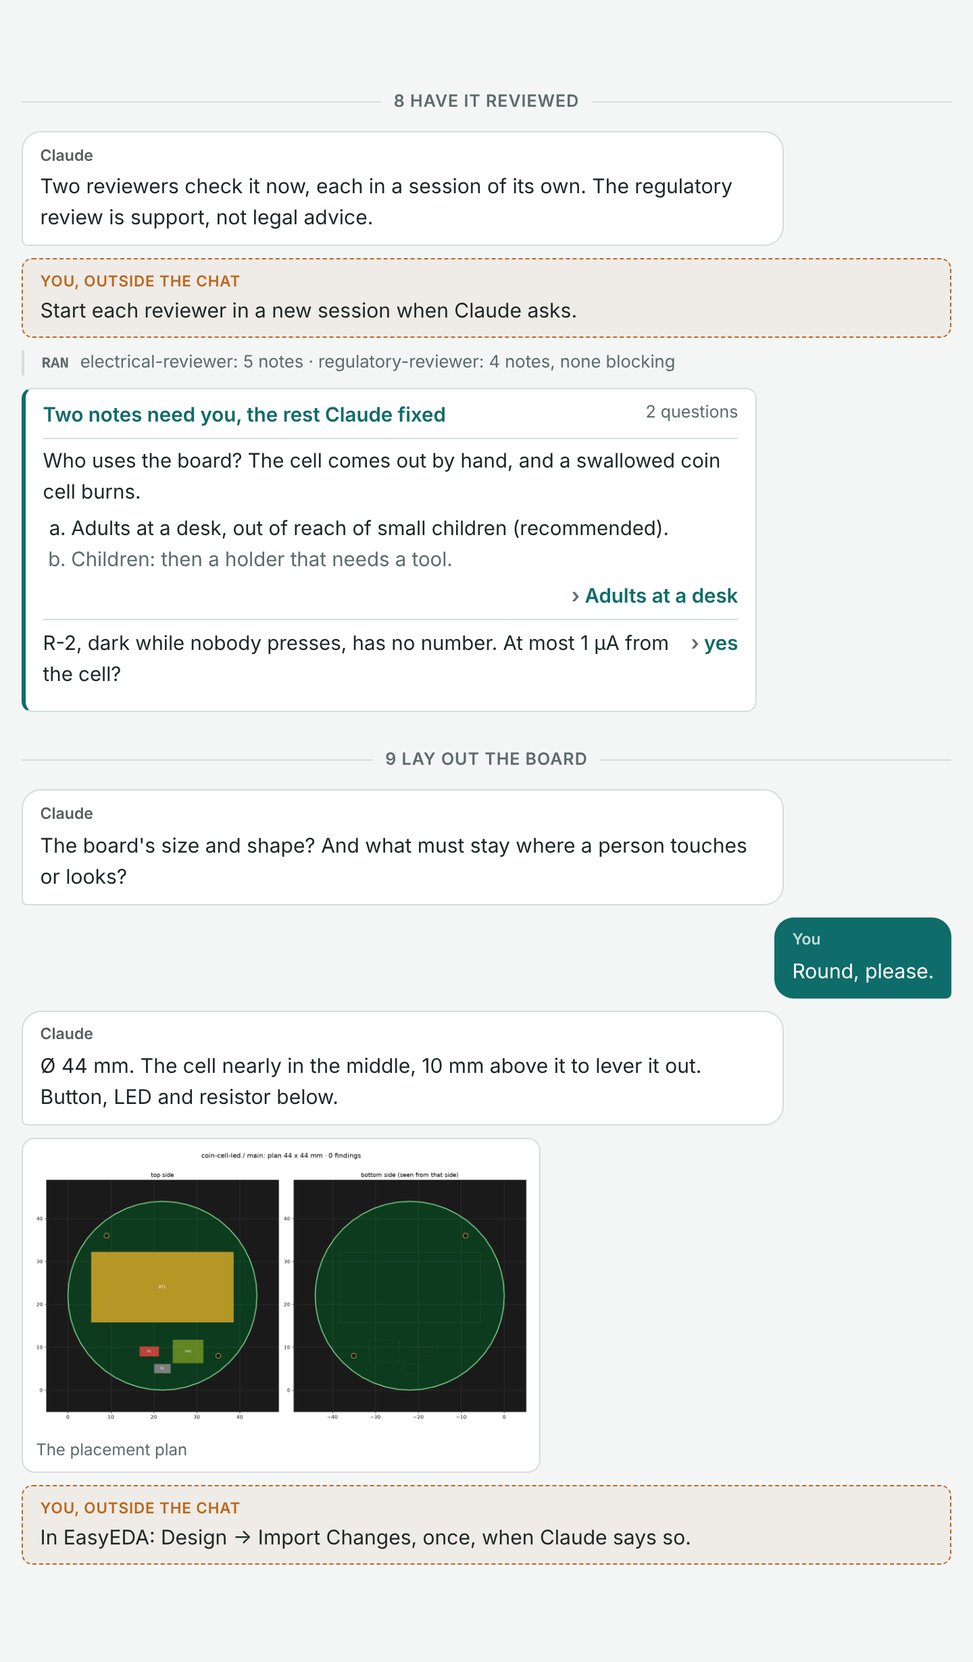
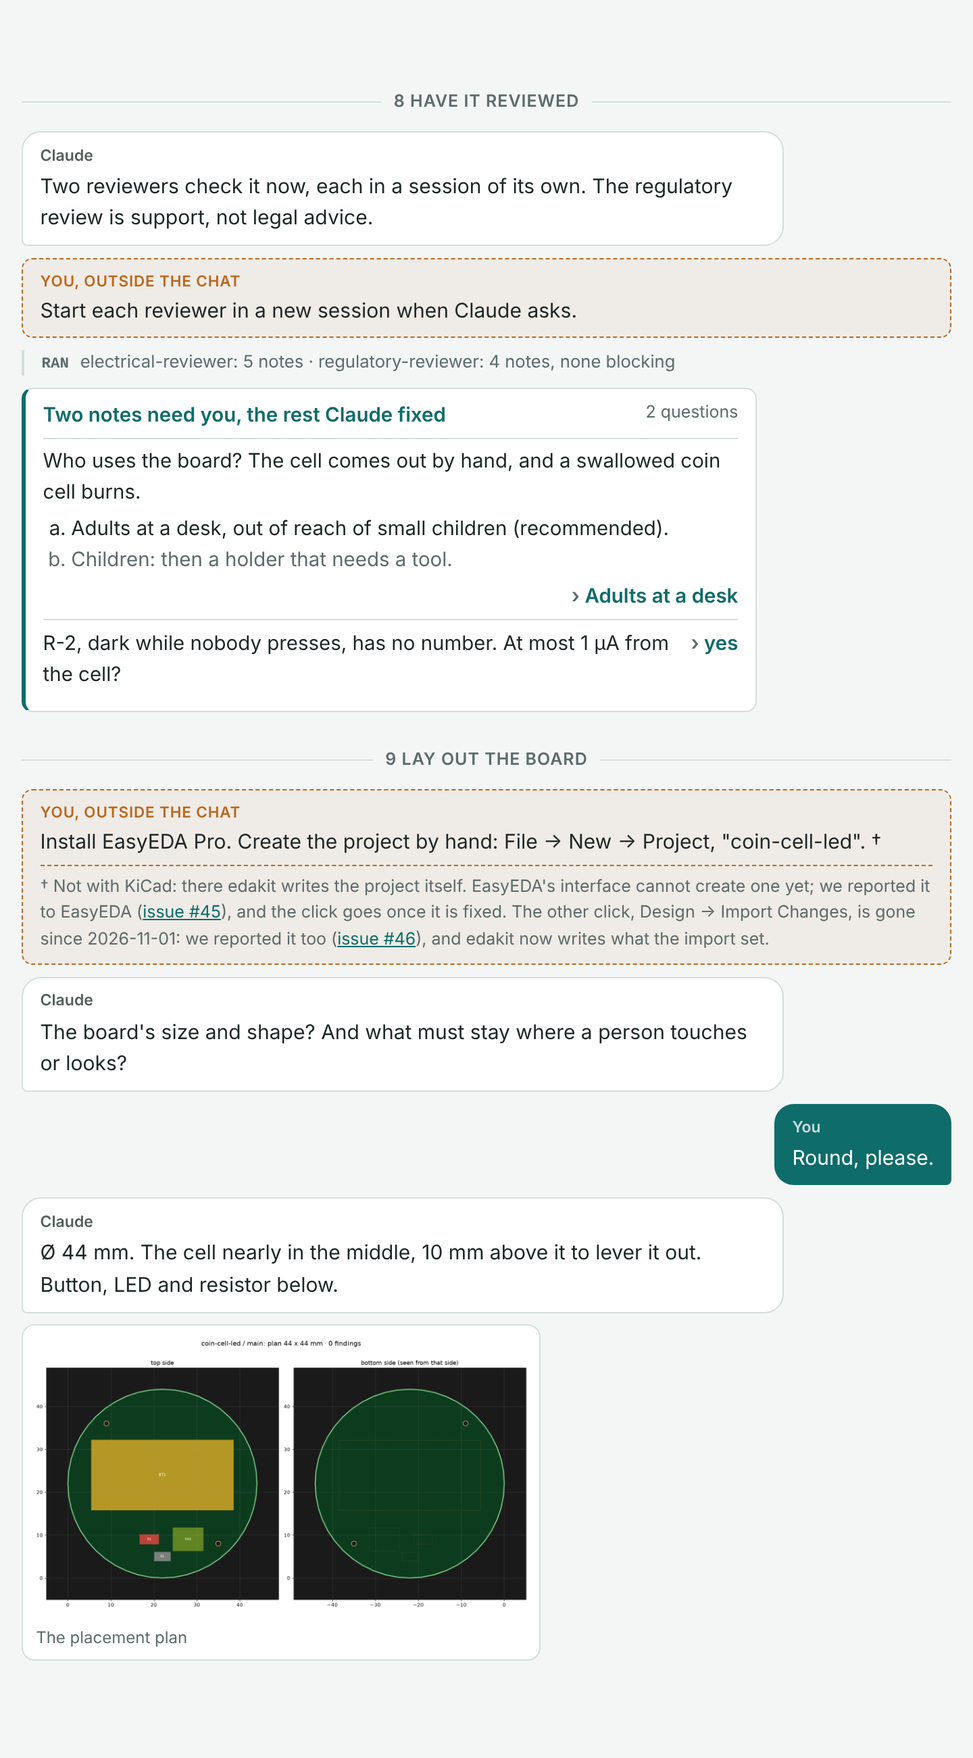
Concept session-chat: a footnote on the click in EasyEDA

diff --git a/docs/concepts/new/prototypes/session-chat/out/session.html b/docs/concepts/new/prototypes/session-chat/out/session.html
@@ -40,6 +40,9 @@ main > p { color: var(--chat-ink); margin: 0 0 .8rem; }
 
 .chat-do { align-self: stretch; padding: .5rem .8rem; border: 1px dashed var(--chat-copper); border-radius: .5rem;
            background: color-mix(in srgb, var(--chat-copper) 7%, transparent); }
+.chat-note { margin-top: .4rem !important; padding-top: .35rem; border-top: 1px dashed var(--chat-copper);
+             font-size: .78rem; color: var(--chat-muted); }
+.chat-note a { color: var(--chat-accent); }
 .chat-do-label { display: block; font-size: .7rem; font-weight: 600; color: var(--chat-copper);
                  text-transform: uppercase; letter-spacing: .04em; }
 
@@ -109,13 +112,12 @@ story, with every file, is the walkthrough.</p><div class="chat">
 <div class="chat-form"><div class="chat-form-title">Two notes need you, the rest Claude fixed<span>2 questions</span></div><div class="chat-q"><p>Who uses the board? The cell comes out by hand, and a swallowed coin cell burns.</p><ol><li class="chat-rec">Adults at a desk, out of reach of small children (recommended).</li><li>Children: then a holder that needs a tool.</li></ol><p class="chat-a">Adults at a desk</p></div><div class="chat-q chat-q-row"><p>R-2, dark while nobody presses, has no number. At most 1 µA from the cell?</p><p class="chat-a">yes</p></div></div>
 <div class="chat-msg chat-claude"><span class="chat-who">Claude</span><p>Fixed. Both reviewers looked again, found one more slip, and signed.</p></div>
 <div class="chat-step"><span>9 Lay out the board</span></div>
-<div class="chat-do"><span class="chat-do-label">You, outside the chat</span><p>Install EasyEDA Pro. Create the project by hand: File → New → Project, &quot;coin-cell-led&quot;.</p></div>
+<div class="chat-do"><span class="chat-do-label">You, outside the chat</span><p>Install EasyEDA Pro. Create the project by hand: File → New → Project, &quot;coin-cell-led&quot;. †</p><p class="chat-note">† Not with KiCad: there edakit writes the project itself. EasyEDA&#x27;s interface cannot create one yet; we reported it to EasyEDA (<a href="https://github.com/easyeda/easyeda-api-sdk/issues/45">issue #45</a>), and the click goes once it is fixed. The other click, Design → Import Changes, is gone since 2026-11-01: we reported it too (<a href="https://github.com/easyeda/easyeda-api-sdk/issues/46">issue #46</a>), and edakit now writes what the import set.</p></div>
 <div class="chat-do"><span class="chat-do-label">You, outside the chat</span><p>Start a new session and type <code>/edakit:pcb-round</code>.</p></div>
 <div class="chat-msg chat-claude"><span class="chat-who">Claude</span><p>The board&#x27;s size and shape? And what must stay where a person touches or looks?</p></div>
 <div class="chat-msg chat-you"><span class="chat-who">You</span><p>Round, please.</p></div>
 <div class="chat-msg chat-claude"><span class="chat-who">Claude</span><p>Ø 44 mm. The cell nearly in the middle, 10 mm above it to lever it out. Button, LED and resistor below.</p></div>
 <figure class="chat-img"><img src="../../../../../../examples/coin-cell-led/docs/pcb_plan_main.png" alt="The placement plan"><figcaption>The placement plan</figcaption></figure>
-<div class="chat-do"><span class="chat-do-label">You, outside the chat</span><p>In EasyEDA: Design → Import Changes, once, when Claude says so.</p></div>
 <div class="chat-ran"><span>ran</span> placed · routed with Freerouting · ground poured · labels · DRC clean · pcb-reviewer signed</div>
 <figure class="chat-img"><img src="../../../../../../examples/coin-cell-led/docs/silk_main_top.png" alt="The board"><figcaption>The board</figcaption></figure>
 <div class="chat-step"><span>10 Order the board</span></div>
@@ -125,4 +127,4 @@ story, with every file, is the walkthrough.</p><div class="chat">
 <div class="chat-ran"><span>ran</span> <code>/edakit:cart</code>: every field set and read back, the quote checked against the estimate. Stopped at the cart.</div>
 <div class="chat-do"><span class="chat-do-label">You, outside the chat</span><p>Check D1&#x27;s cathode in JLCPCB&#x27;s preview, then order and pay.</p></div>
 <div class="chat-do"><span class="chat-do-label">You, outside the chat</span><p>When the boards arrive: solder BT1, test each board against the list.</p></div>
-<div class="chat-tally"><b>Your part:</b> 8 messages typed, 15 answers in 5 forms, 7 things done outside the chat.</div></div></main></body></html>
+<div class="chat-tally"><b>Your part:</b> 8 messages typed, 15 answers in 5 forms, 6 things done outside the chat.</div></div></main></body></html>

diff --git a/docs/concepts/new/prototypes/session-chat/out/example.html b/docs/concepts/new/prototypes/session-chat/out/example.html
@@ -40,6 +40,9 @@ main > p { color: var(--chat-ink); margin: 0 0 .8rem; }
 
 .chat-do { align-self: stretch; padding: .5rem .8rem; border: 1px dashed var(--chat-copper); border-radius: .5rem;
            background: color-mix(in srgb, var(--chat-copper) 7%, transparent); }
+.chat-note { margin-top: .4rem !important; padding-top: .35rem; border-top: 1px dashed var(--chat-copper);
+             font-size: .78rem; color: var(--chat-muted); }
+.chat-note a { color: var(--chat-accent); }
 .chat-do-label { display: block; font-size: .7rem; font-weight: 600; color: var(--chat-copper);
                  text-transform: uppercase; letter-spacing: .04em; }
 
@@ -76,9 +79,9 @@ main > p { color: var(--chat-ink); margin: 0 0 .8rem; }
 <div class="chat-ran"><span>ran</span> electrical-reviewer: 5 notes · regulatory-reviewer: 4 notes, none blocking</div>
 <div class="chat-form"><div class="chat-form-title">Two notes need you, the rest Claude fixed<span>2 questions</span></div><div class="chat-q"><p>Who uses the board? The cell comes out by hand, and a swallowed coin cell burns.</p><ol><li class="chat-rec">Adults at a desk, out of reach of small children (recommended).</li><li>Children: then a holder that needs a tool.</li></ol><p class="chat-a">Adults at a desk</p></div><div class="chat-q chat-q-row"><p>R-2, dark while nobody presses, has no number. At most 1 µA from the cell?</p><p class="chat-a">yes</p></div></div>
 <div class="chat-step"><span>9 Lay out the board</span></div>
+<div class="chat-do"><span class="chat-do-label">You, outside the chat</span><p>Install EasyEDA Pro. Create the project by hand: File → New → Project, &quot;coin-cell-led&quot;. †</p><p class="chat-note">† Not with KiCad: there edakit writes the project itself. EasyEDA&#x27;s interface cannot create one yet; we reported it to EasyEDA (<a href="https://github.com/easyeda/easyeda-api-sdk/issues/45">issue #45</a>), and the click goes once it is fixed. The other click, Design → Import Changes, is gone since 2026-11-01: we reported it too (<a href="https://github.com/easyeda/easyeda-api-sdk/issues/46">issue #46</a>), and edakit now writes what the import set.</p></div>
 <div class="chat-msg chat-claude"><span class="chat-who">Claude</span><p>The board&#x27;s size and shape? And what must stay where a person touches or looks?</p></div>
 <div class="chat-msg chat-you"><span class="chat-who">You</span><p>Round, please.</p></div>
 <div class="chat-msg chat-claude"><span class="chat-who">Claude</span><p>Ø 44 mm. The cell nearly in the middle, 10 mm above it to lever it out. Button, LED and resistor below.</p></div>
 <figure class="chat-img"><img src="../../../../../../examples/coin-cell-led/docs/pcb_plan_main.png" alt="The placement plan"><figcaption>The placement plan</figcaption></figure>
-<div class="chat-do"><span class="chat-do-label">You, outside the chat</span><p>In EasyEDA: Design → Import Changes, once, when Claude says so.</p></div>
 </div></main></body></html>

diff --git a/docs/concepts/new/prototypes/session-chat/chat.css b/docs/concepts/new/prototypes/session-chat/chat.css
@@ -40,6 +40,9 @@ main > p { color: var(--chat-ink); margin: 0 0 .8rem; }
 
 .chat-do { align-self: stretch; padding: .5rem .8rem; border: 1px dashed var(--chat-copper); border-radius: .5rem;
            background: color-mix(in srgb, var(--chat-copper) 7%, transparent); }
+.chat-note { margin-top: .4rem !important; padding-top: .35rem; border-top: 1px dashed var(--chat-copper);
+             font-size: .78rem; color: var(--chat-muted); }
+.chat-note a { color: var(--chat-accent); }
 .chat-do-label { display: block; font-size: .7rem; font-weight: 600; color: var(--chat-copper);
                  text-transform: uppercase; letter-spacing: .04em; }
 

diff --git a/docs/concepts/new/prototypes/session-chat/chat.py b/docs/concepts/new/prototypes/session-chat/chat.py
@@ -9,6 +9,7 @@ The format, one entry a line, an indented line continuing the one above:
     claude: <text>         what Claude says
     ran: <text>            what Claude ran – a quiet line, no bubble
     do: <text>             what the person does outside the chat: an install, a click, a new session, paying
+      † <text>             under a do: its footnote – for a click in EasyEDA: KiCad needs none, and the issue upstream
     img: <path> | <alt>    a picture Claude shows
     form: <title>          Claude Code's question form, then per question:
       ? <question>
@@ -47,6 +48,8 @@ def parse(text):
                     value["questions"][-1]["options"].append(rest)
                 else:
                     value["questions"][-1]["answer"] = rest
+            elif body.startswith("† ") and kind in ("do", "note"):
+                entries.append(("note", body[2:]))
             elif kind != "form":
                 entries[-1] = (kind, f"{value} {body}")
             continue
@@ -68,16 +71,31 @@ def tally(entries):
     return {"typed": you, "forms": len(forms), "answers": answers, "outside": do}
 
 
+LINK = re.compile(r"\[([^\]]+)\]\(([^)\s]+)\)")
+
+
 def code(text):
-    """`/edakit:…`, `edakit …` and paths set in mono, the rest escaped."""
+    """`/edakit:…`, `edakit …` and paths set in mono, [text](url) a link, the rest escaped."""
+    out, last = [], 0
+    for m in LINK.finditer(text):
+        out.append(mono(text[last:m.start()]))
+        out.append(f'<a href="{html.escape(m.group(2))}">{mono(m.group(1))}</a>')
+        last = m.end()
+    return "".join(out) + mono(text[last:])
+
+
+def mono(text):
+    """The commands – on the site the list of edakit's own –, the slash commands and the paths in mono."""
     out = html.escape(text)
-    return re.sub(r"(/edakit:[\w-]+|edakit [a-z][\w -]*?(?= ·|:|$|\.)|[\w./-]+\.(?:toml|json|md))",
+    return re.sub(r"(/edakit:[\w-]+|edakit (?:block|part|check|sim|stock|cost|order|schematic|gate|req|graph|explain|cart|pcb|route|release)\b[\w -]*?(?= ·|:|$|\.)|[\w./-]+\.(?:toml|json|md))",
                   r"<code>\1</code>", out)
 
 
 def render(entries):
     parts = ['<div class="chat">']
-    for kind, value in entries:
+    for n, (kind, value) in enumerate(entries):
+        if kind == "note":
+            continue                     # written inside the do above it
         if kind == "step":
             parts.append(f'<div class="chat-step"><span>{html.escape(value)}</span></div>')
         elif kind in ("you", "claude"):
@@ -87,8 +105,14 @@ def render(entries):
         elif kind == "ran":
             parts.append(f'<div class="chat-ran"><span>ran</span> {code(value)}</div>')
         elif kind == "do":
+            notes = []
+            for k, v in entries[n + 1:]:
+                if k != "note":
+                    break
+                notes.append(f'<p class="chat-note">† {code(v)}</p>')
+            mark = " †" if notes else ""
             parts.append(f'<div class="chat-do"><span class="chat-do-label">You, outside the chat</span>'
-                         f'<p>{code(value)}</p></div>')
+                         f'<p>{code(value)}{mark}</p>{"".join(notes)}</div>')
         elif kind == "img":
             path, _, alt = (s.strip() for s in value.partition("|"))
             parts.append(f'<figure class="chat-img"><img src="{html.escape(path)}" alt="{html.escape(alt)}">'

diff --git a/docs/concepts/new/session-chat.md b/docs/concepts/new/session-chat.md
@@ -26,7 +26,7 @@ what ran in between.
 
 **The yardstick.** The chat is text in the repository, the page's source, held by a test to the example's files.
 Nothing of it exists only in EasyEDA or in someone's head. It also makes visible what is not yet chat – the install,
-two clicks in EasyEDA, the new sessions, paying – instead of hiding it.
+the click in EasyEDA, the new sessions, paying – instead of hiding it.
 
 ## The proposal
 
@@ -48,10 +48,15 @@ two clicks in EasyEDA, the new sessions, paying – instead of hiding it.
   `docs/decisions.md`, its graph, requirements and outputs – and from the walkthrough. Claude's lines are shortened;
   the page says so once, in its intro, and links the walkthrough for the full story.
 - **Honest about the rest.** What a person does outside the chat stands in the chat, set apart ("You, outside the
-  chat"): the install, creating the EasyEDA project by hand, *Import Changes*, a new session for the layout, starting
+  chat"): the install, creating the EasyEDA project by hand, a new session for the layout, starting
   the reviewers, checking the preview, ordering and paying, testing the boards. Each such line is also a requirement
   E-… in `upstream/README.md` or a step of the steps pages; when one goes away, its line goes.
-- **The tally** under the chat: "Your part: 8 messages typed, 15 answers in 5 forms, 7 things done outside the chat."
+- **A click in EasyEDA gets a footnote** (the owner, 2026-11-03): that KiCad does without it, and that it is reported
+  to EasyEDA so it goes – the issue linked, the same as in the requirement E-… of `upstream/README.md`. Today that is
+  one click, *File → New → Project* (E-1, [easyeda-api-sdk#45](https://github.com/easyeda/easyeda-api-sdk/issues/45));
+  its footnote also says that the second, *Design → Import Changes*, is gone since 2026-11-01 (E-2,
+  [#46](https://github.com/easyeda/easyeda-api-sdk/issues/46), TD-37), so it has no line of its own any more.
+- **The tally** under the chat: "Your part: 8 messages typed, 15 answers in 5 forms, 6 things done outside the chat."
   Counted from the entries when the site is assembled, never typed by hand. That is the owner's point in one line – a
   task and a few questions – and its limits beside it.
 - **Not legal advice.** The reviewers' entry says once that the regulatory review is support, not legal advice
@@ -77,7 +82,8 @@ claude: Written to docs/decisions.md, each with its reason and date.
 
 Seven kinds of entry: `---` a step divider, `you:`, `claude:`, `ran:` (what Claude ran, a quiet line), `do:` (outside
 the chat), `img:` (a picture Claude shows), `form:` with `?` question, `-` option (the recommended first) and `>`
-answer. An indented line continues the entry above.
+answer. Under a `do:`, an indented line starting with `†` is its footnote, with links as `[text](url)`. An indented
+line continues the entry above.
 
 `docs/pages.py` turns each `chat` fence into HTML while it assembles the pages (it rewrites links there already), and
 appends the tally. No MkDocs plugin and no Python function in `mkdocs.yml`: the build stays the two commands of
@@ -92,7 +98,8 @@ In the brand's tokens (`docs/brand/tokens.json`), in `docs/brand/edakit.css`, fo
 - **The form** – a card like Claude Code's question form: title and count, each question with its options, the
   recommended one first and darker, the answer right-aligned in teal. A question without options is one row.
 - **Ran** – a small grey line with a left rule, commands in mono; no bubble, so the eye skips it.
-- **Outside the chat** – a dashed box in copper across the width: it must stand out, not hide.
+- **Outside the chat** – a dashed box in copper across the width: it must stand out, not hide. Its footnote stands
+  inside the box under a dashed line, small and grey, the issues linked; the line it belongs to ends in †.
 - **A step** – a divider with the step's name, linked to its steps page.
 - **Pictures** – a card on Claude's side, at most 24 rem wide.
 
@@ -103,7 +110,8 @@ and 9).
 #### A concrete example
 
 Steps 8 and 9 of the session, shortened – every kind of entry once: a step divider, Claude, you, a form with options
-and a one-row question, a line of what ran, two things outside the chat, a picture. The source, as it stands in the
+and a one-row question, a line of what ran, two things outside the chat – the second, the click in EasyEDA, with its
+footnote –, a picture. The source, as it stands in the
 page's Markdown ([prototypes/session-chat/example.md](prototypes/session-chat/example.md)):
 
 ```text
@@ -120,11 +128,15 @@ form: Two notes need you, the rest Claude fixed
   > yes
 
 --- 9 Lay out the board
+do: Install EasyEDA Pro. Create the project by hand: File → New → Project, "coin-cell-led".
+  † Not with KiCad: there edakit writes the project itself. EasyEDA's interface cannot create one yet; we reported
+  it to EasyEDA ([issue #45](https://github.com/easyeda/easyeda-api-sdk/issues/45)), and the click goes once it is
+  fixed. The other click, Design → Import Changes, is gone since 2026-11-01: we reported it too
+  ([issue #46](https://github.com/easyeda/easyeda-api-sdk/issues/46)), and edakit now writes what the import set.
 claude: The board's size and shape? And what must stay where a person touches or looks?
 you: Round, please.
 claude: Ø 44 mm. The cell nearly in the middle, 10 mm above it to lever it out. Button, LED and resistor below.
 img: ../../examples/coin-cell-led/docs/pcb_plan_main.png | The placement plan
-do: In EasyEDA: Design → Import Changes, once, when Claude says so.
 ```
 
 What the site shows, rendered by the prototype's `chat.py` with `chat.css` – on a desktop at 720 px in the light
@@ -147,6 +159,8 @@ The HTML `docs/pages.py` writes for it, in part – one class a kind of entry, n
     <ol><li class="chat-rec">Adults at a desk, … (recommended).</li><li>Children: …</li></ol>
     <p class="chat-a">Adults at a desk</p></div>
   <div class="chat-q chat-q-row"><p>R-2, dark while nobody presses, …</p><p class="chat-a">yes</p></div></div>
+<div class="chat-do"><span class="chat-do-label">You, outside the chat</span><p>Install EasyEDA Pro. … †</p>
+  <p class="chat-note">† Not with KiCad: … (<a href="https://github.com/easyeda/easyeda-api-sdk/issues/45">issue #45</a>) …</p></div>
 <div class="chat-msg chat-you"><span class="chat-who">You</span><p>Round, please.</p></div>
 <figure class="chat-img"><img src="…/pcb_plan_main.png" alt="The placement plan"><figcaption>The placement plan</figcaption></figure>
 </div>
@@ -164,6 +178,8 @@ An excerpt like this one gets no tally; the tally stands only under a whole sess
 - every number with a unit in a Claude, form or ran line appears in the example's files or in chapter 17 (1.22 mA,
   10.7 mA, 52.60 USD, Ø 44 mm …);
 - every `do:` line is matched by a requirement E-… of `upstream/README.md` or by a "What you do" of a steps page;
+  a `do:` with a click in EasyEDA has a footnote, and its issue is the one its E-… row names – a row whose click is
+  gone ("none") fails the test while its line still stands;
 - the page within the entry register of `tests/test_style.py`.
 
 ## The chat, as drafted
@@ -180,7 +196,7 @@ The full draft is [prototypes/session-chat/session.md](prototypes/session-chat/s
 | 6 Parts and cost | – | one form: who places BT1 | – |
 | 7 Drawing | "a board" | stop here or a board? | – |
 | 8 Reviews | – | one form: who uses it, R-2's number | start the reviewers |
-| 9 Layout | "Round, please." | size and shape? | install EasyEDA, create the project, a new session, *Import Changes* |
+| 9 Layout | "Round, please." | size and shape? | install EasyEDA, create the project (with its footnote), a new session |
 | 10 Order | "Release it and put it into the cart." | one form: shipping | check the preview, order and pay; test the boards |
 
 ## Steps
@@ -244,6 +260,13 @@ Taken by the owner on 2026-11-03 in a decision round in Claude Code's form, the 
 
 Set by Claude and left to it by the owner on 2026-11-03, kept as it stands: the seven kinds of entry; the layout of section 4; the tally's wording; the page's
 name "A session" and its place after the start page; the budget of 1,000 words; no decision numbers in the chat.
+
+## A finding on the way
+
+`docs/steps/09-lay-out-the-board.md` still says "In EasyEDA one click is left for you: *Design → Import Changes*,
+once". By `upstream/README.md`, E-2, that click is gone since 2026-11-01 (TD-37): edakit writes the Channel ID the
+import set, and the click is needed only if the DRC still reports the item. A finding for the documentation, for the
+owner – not changed here.
 
 ## Sources
 

diff --git a/docs/concepts/new/prototypes/session-chat/session.md b/docs/concepts/new/prototypes/session-chat/session.md
@@ -93,12 +93,15 @@ claude: Fixed. Both reviewers looked again, found one more slip, and signed.
 
 --- 9 Lay out the board
 do: Install EasyEDA Pro. Create the project by hand: File → New → Project, "coin-cell-led".
+  † Not with KiCad: there edakit writes the project itself. EasyEDA's interface cannot create one yet; we reported
+  it to EasyEDA ([issue #45](https://github.com/easyeda/easyeda-api-sdk/issues/45)), and the click goes once it is
+  fixed. The other click, Design → Import Changes, is gone since 2026-11-01: we reported it too
+  ([issue #46](https://github.com/easyeda/easyeda-api-sdk/issues/46)), and edakit now writes what the import set.
 do: Start a new session and type /edakit:pcb-round.
 claude: The board's size and shape? And what must stay where a person touches or looks?
 you: Round, please.
 claude: Ø 44 mm. The cell nearly in the middle, 10 mm above it to lever it out. Button, LED and resistor below.
 img: ../../../../../examples/coin-cell-led/docs/pcb_plan_main.png | The placement plan
-do: In EasyEDA: Design → Import Changes, once, when Claude says so.
 ran: placed · routed with Freerouting · ground poured · labels · DRC clean · pcb-reviewer signed
 img: ../../../../../examples/coin-cell-led/docs/silk_main_top.png | The board
 

diff --git a/docs/concepts/new/prototypes/session-chat/example.md b/docs/concepts/new/prototypes/session-chat/example.md
@@ -14,9 +14,13 @@ form: Two notes need you, the rest Claude fixed
   > yes
 
 --- 9 Lay out the board
+do: Install EasyEDA Pro. Create the project by hand: File → New → Project, "coin-cell-led".
+  † Not with KiCad: there edakit writes the project itself. EasyEDA's interface cannot create one yet; we reported
+  it to EasyEDA ([issue #45](https://github.com/easyeda/easyeda-api-sdk/issues/45)), and the click goes once it is
+  fixed. The other click, Design → Import Changes, is gone since 2026-11-01: we reported it too
+  ([issue #46](https://github.com/easyeda/easyeda-api-sdk/issues/46)), and edakit now writes what the import set.
 claude: The board's size and shape? And what must stay where a person touches or looks?
 you: Round, please.
 claude: Ø 44 mm. The cell nearly in the middle, 10 mm above it to lever it out. Button, LED and resistor below.
 img: ../../../../../examples/coin-cell-led/docs/pcb_plan_main.png | The placement plan
-do: In EasyEDA: Design → Import Changes, once, when Claude says so.
 ```

diff --git a/docs/concepts/new/prototypes/session-chat/README.md b/docs/concepts/new/prototypes/session-chat/README.md
@@ -13,4 +13,5 @@ The sketch of [session-chat.md](../../session-chat.md), not on the site's naviga
 - `out/session.html` – the rendered page; `out/session-light.png` its top at 900 px, light, up to step 6;
   `out/session-dark-phone.png` steps 8 and 9 at 390 px, dark.
 
-Its tally, counted by `chat.py`: 8 messages typed, 15 answers in 5 forms, 7 things done outside the chat.
+Its tally, counted by `chat.py`: 8 messages typed, 15 answers in 5 forms, 6 things done outside the chat. The click in EasyEDA carries a
+footnote (`†`): KiCad needs none, and the issues reported to EasyEDA.
